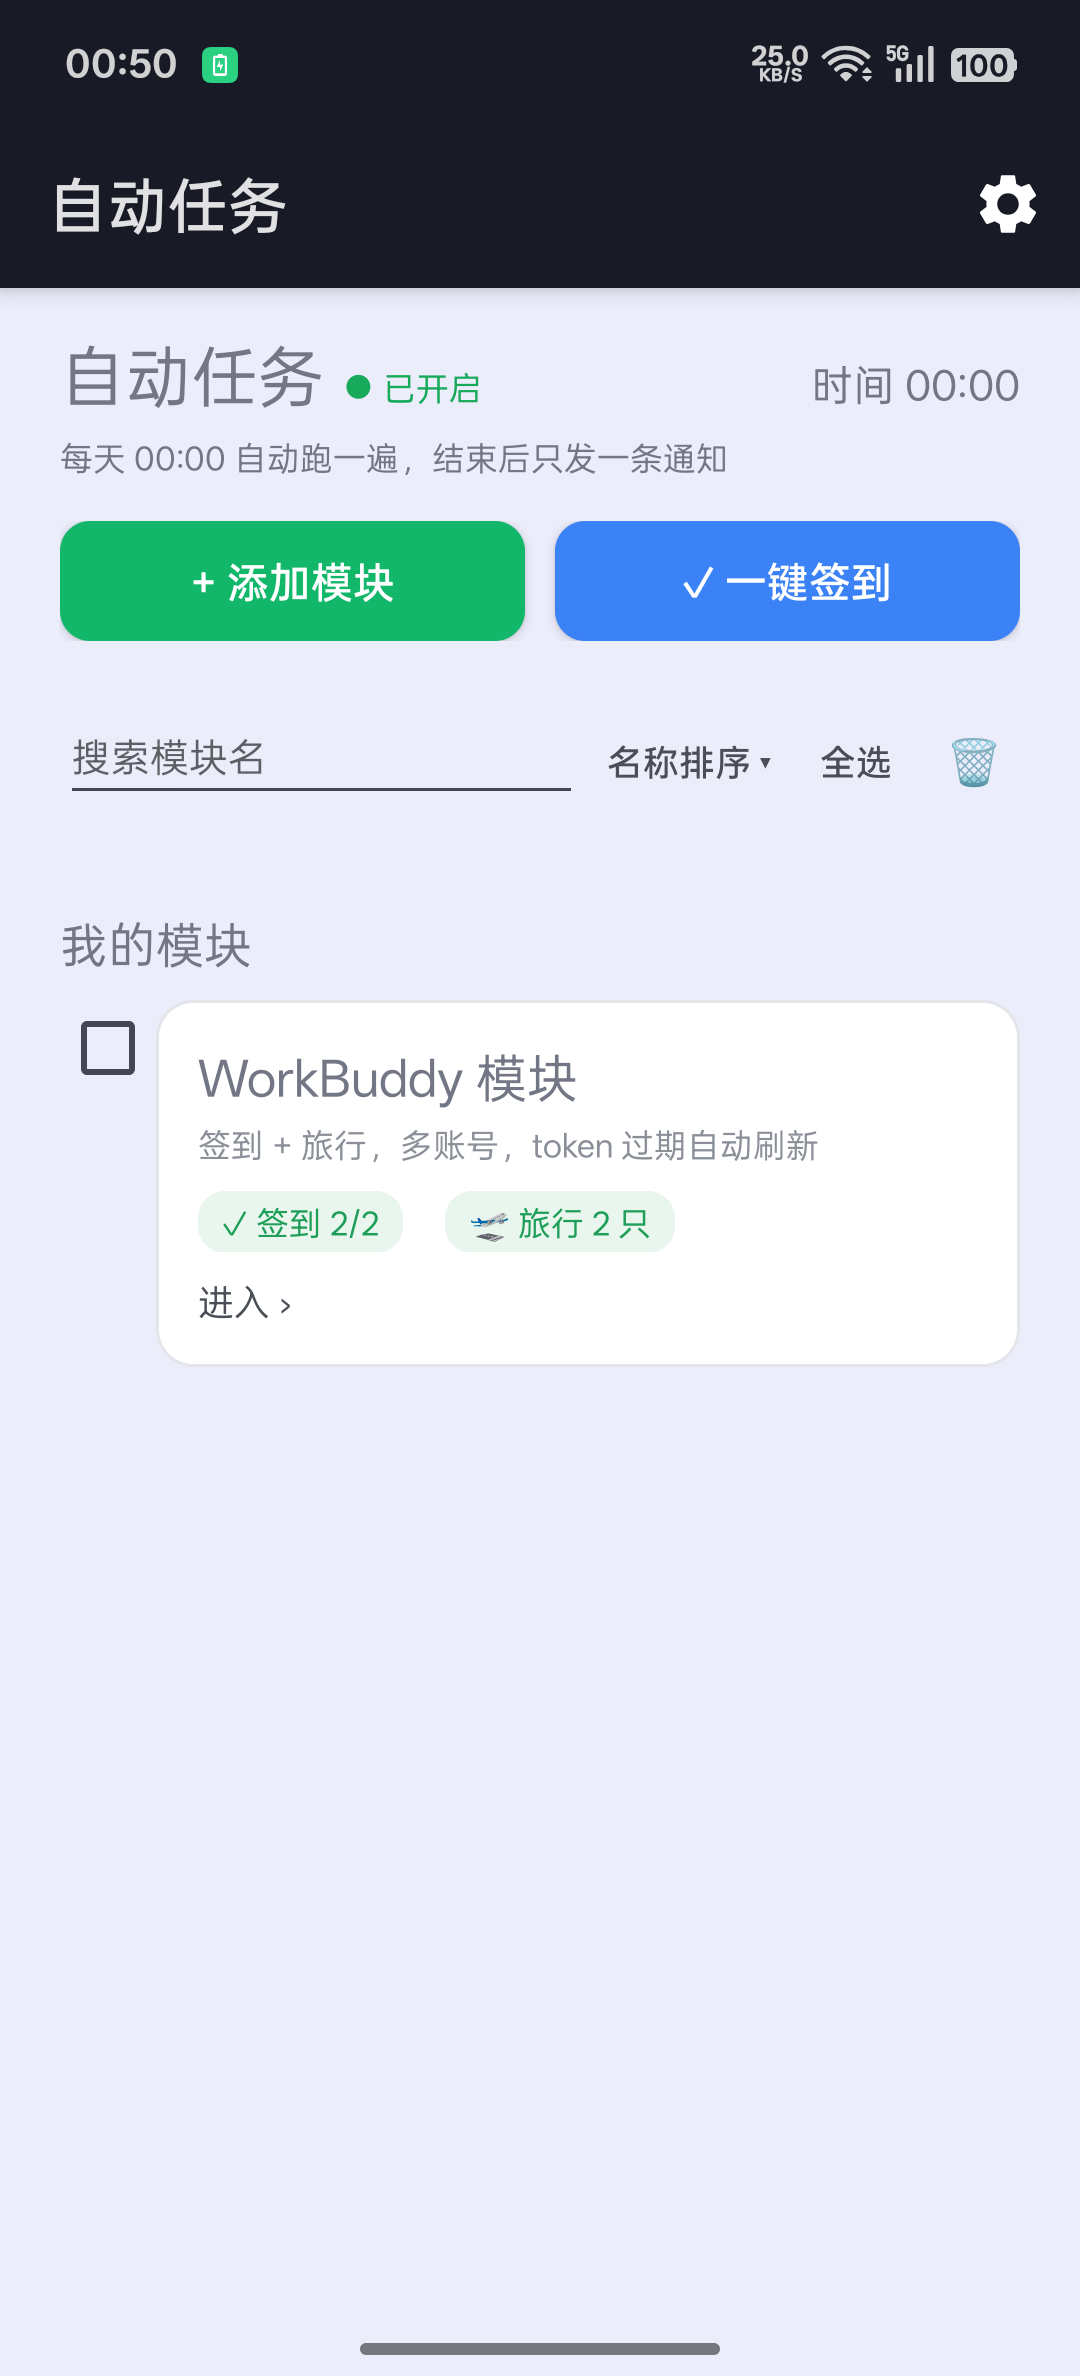
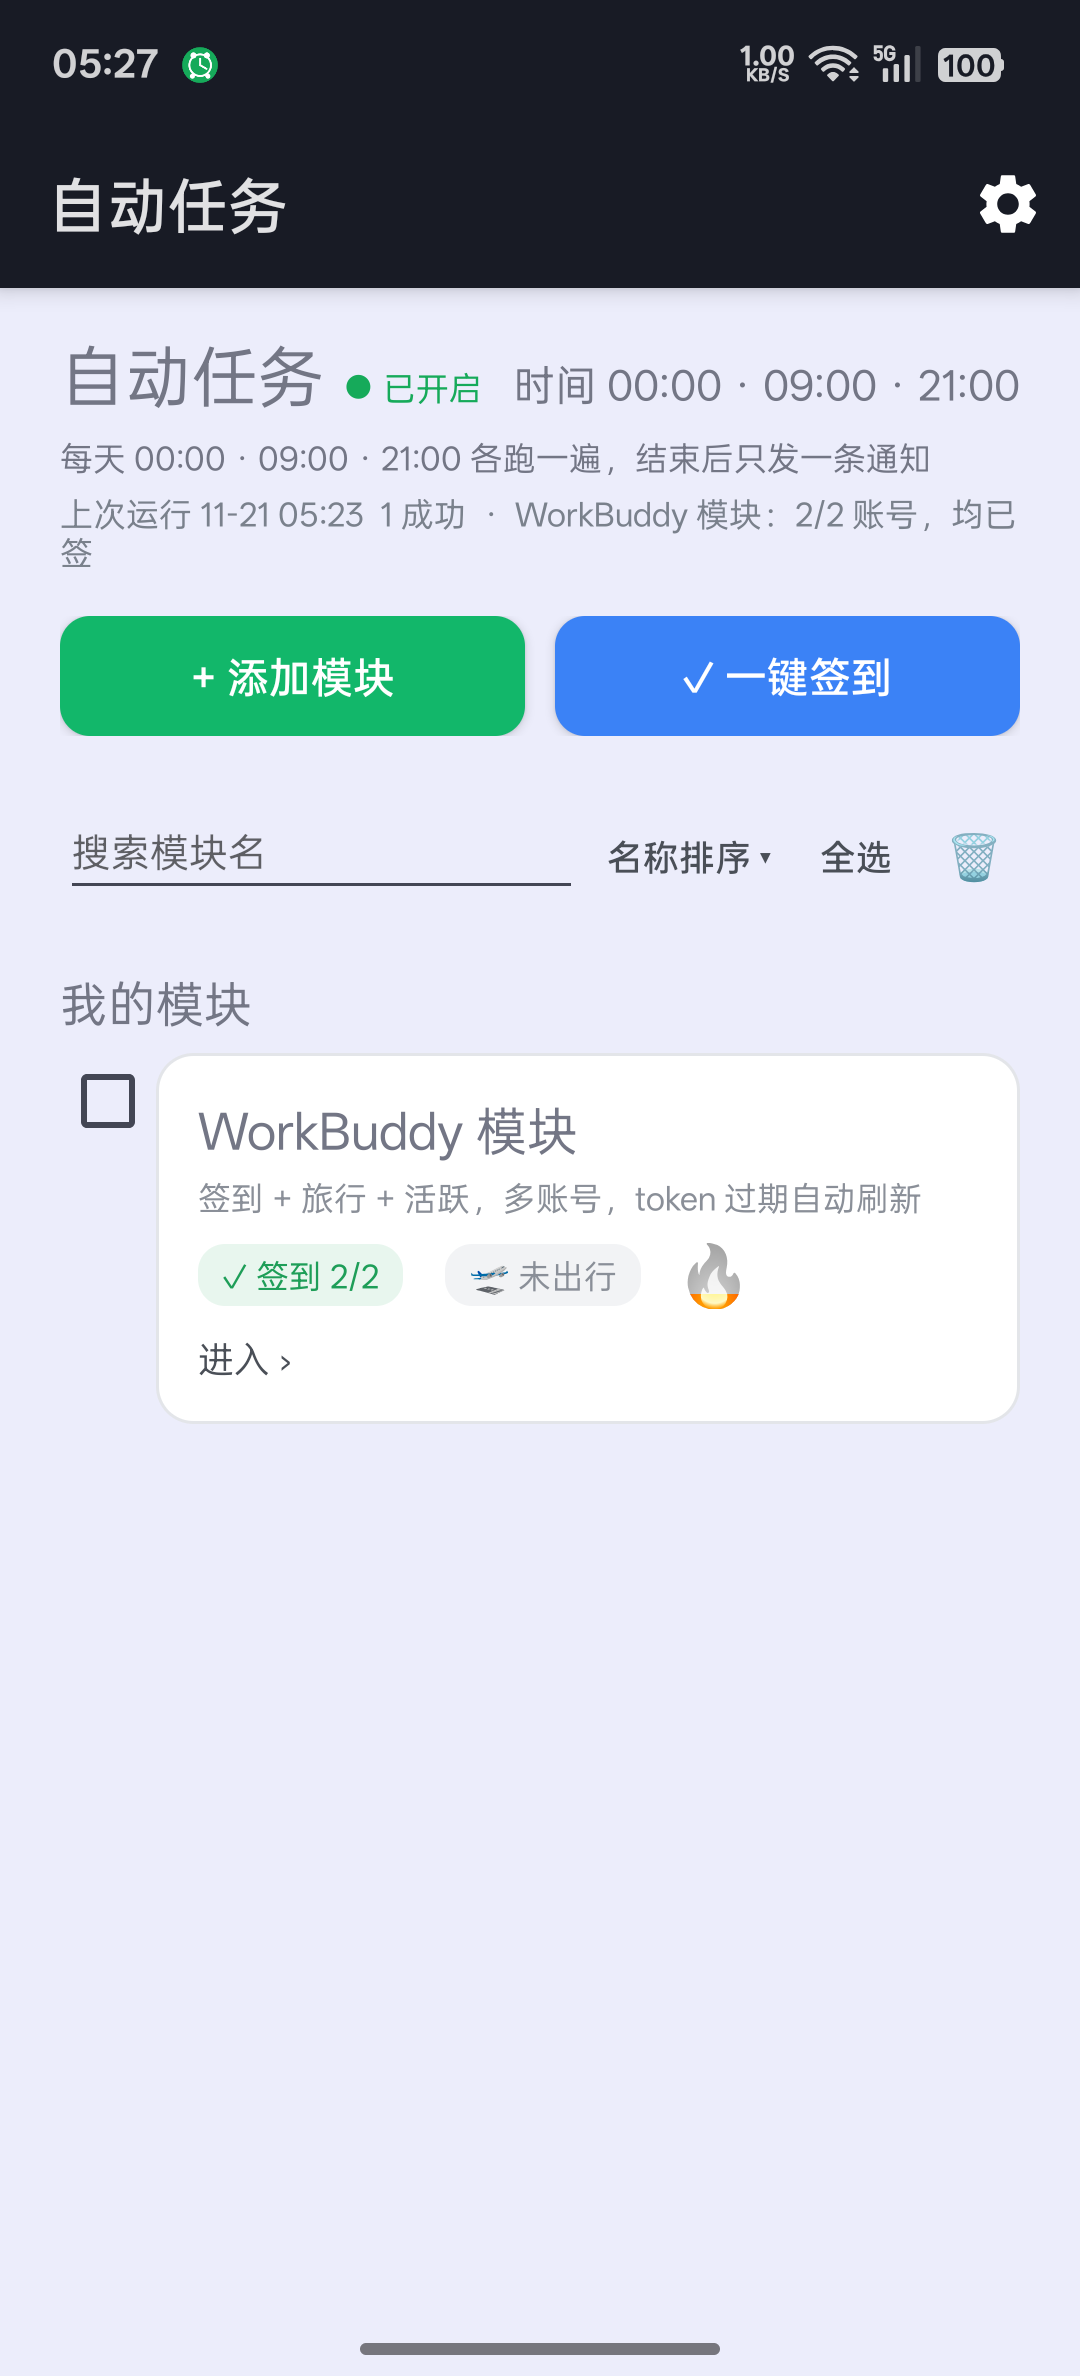
docs: 换掉首页 / 模块页截图（对齐当前界面）
- home.png：多时段标题、上次运行精简、模块卡角标含火焰
- module.png：账号卡片含 签到/旅行 药丸 + 火焰
- README 里的时间示例改成截图里的 00:00 · 09:00 · 21:00

diff --git a/README.md b/README.md
@@ -27,7 +27,7 @@
 
 - 标题旁边 `● 已开启 / ● 已关闭` 是**总开关**，点右上角 ⚙ 切换。关掉后一条闹钟都不排，只能手动跑。
 - `上次运行` 只显示主结论（如 `WorkBuddy 模块：2/2 账号，均已签`），旅行/活跃的明细在通知和 `run.log` 里，避免模块一多这一行就撑爆。
-- 右上 `时间 01:40 · 09:00 · 21:00`：点一下改时间，保存即生效。**支持多个时段**，用逗号隔开（`0400` 或 `04:00` 都认），到点各跑一遍。
+- 右上 `时间 00:00 · 09:00 · 21:00`：点一下改时间，保存即生效。**支持多个时段**，用逗号隔开（`0400` 或 `04:00` 都认），到点各跑一遍。
 - **✓ 一键签到**：立刻把**勾选**的模块跑一遍（没勾会提示你先勾）。
 - 卡片右下 `进入 ›`：进模块设置。
 - 长按卡片 = 只跑这一个模块（隐藏手势，自测用）。
